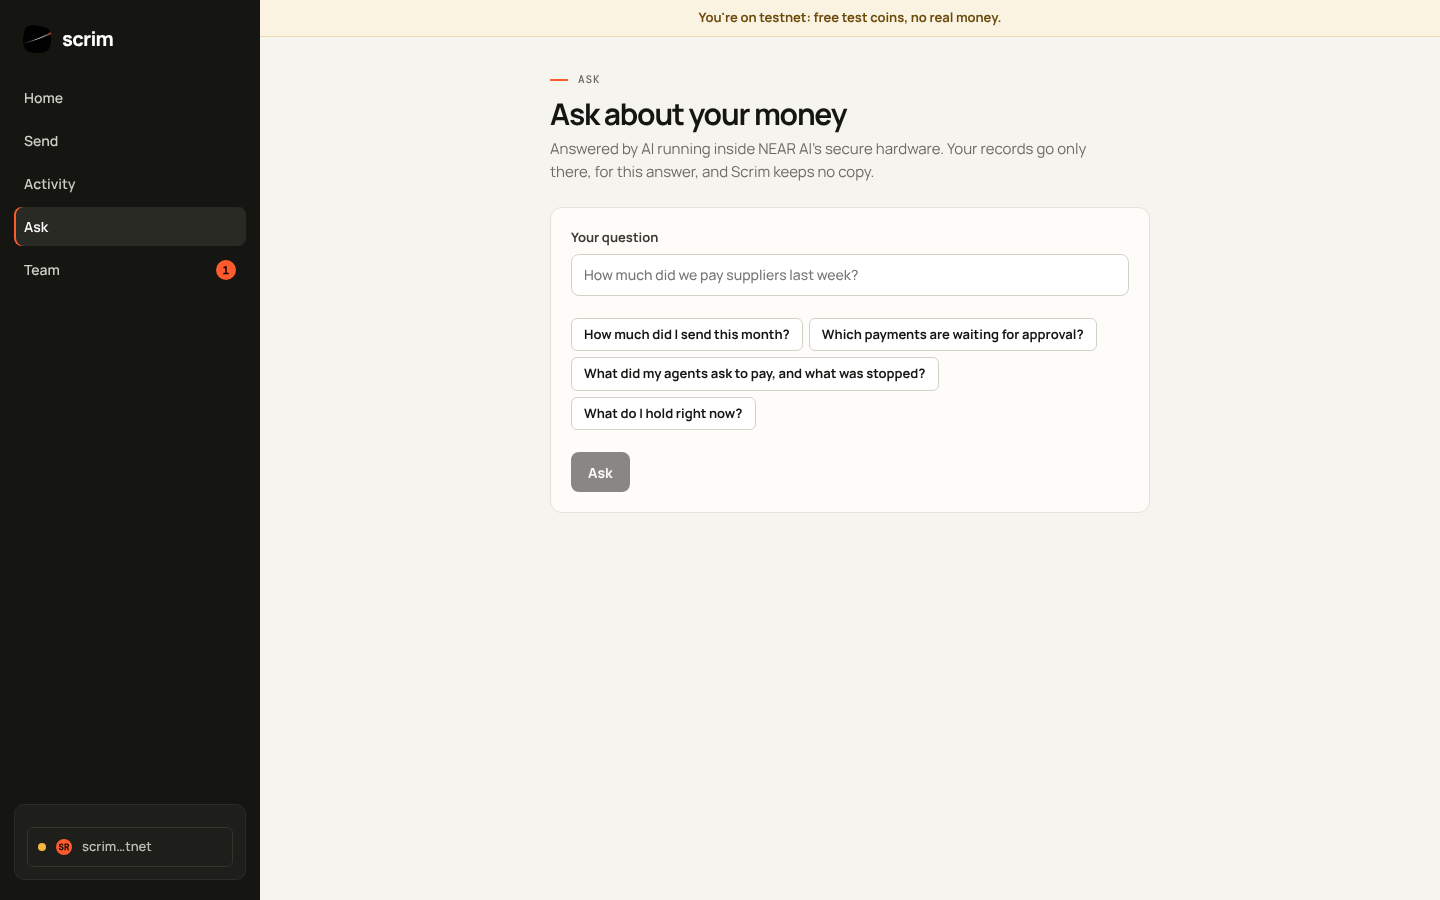
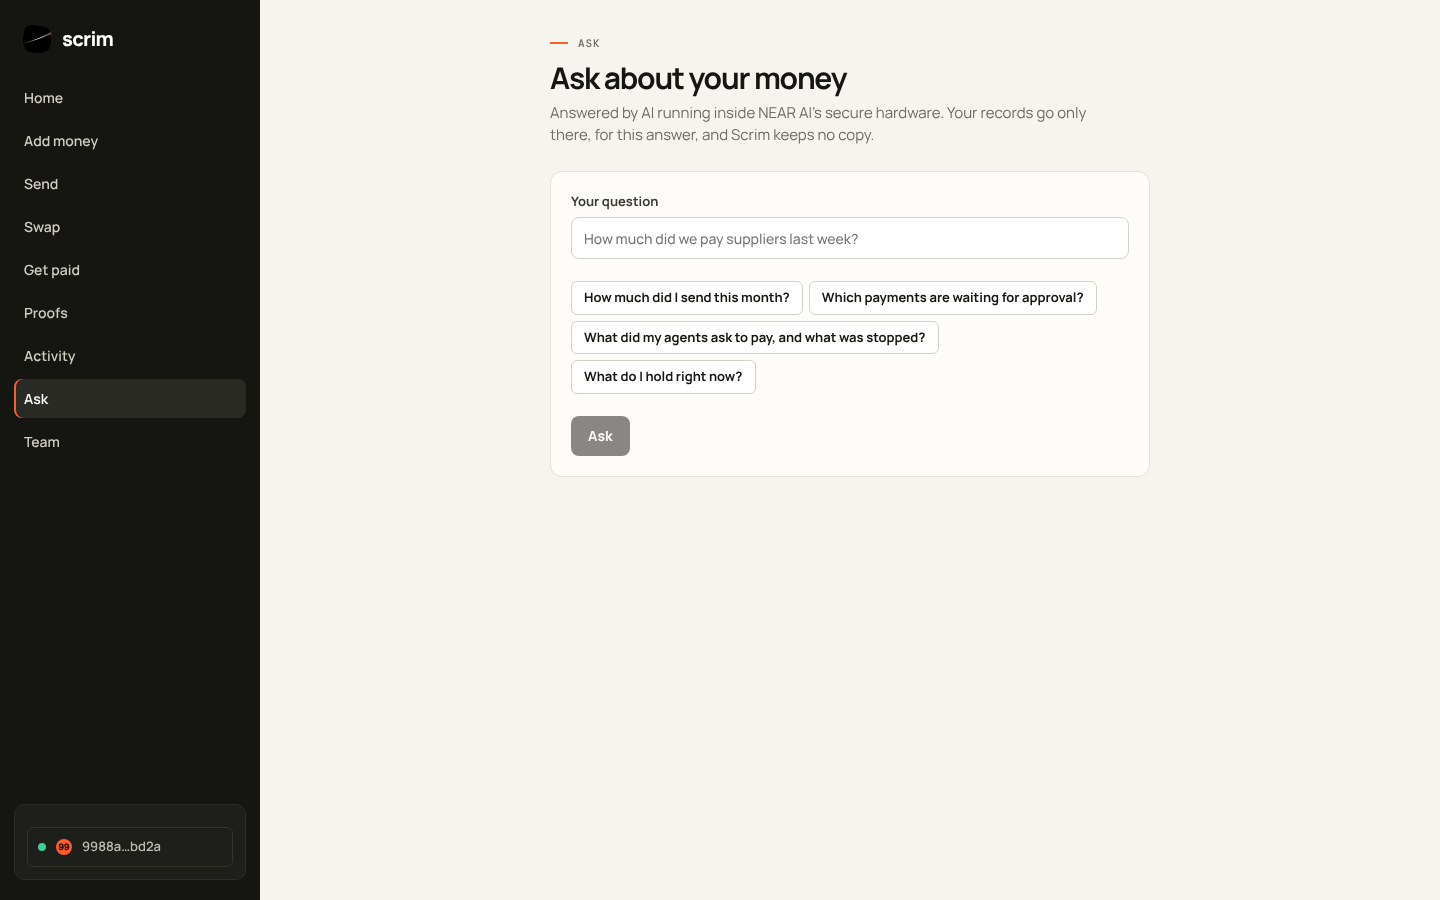
README leads with mainnet screens: home, add money, send, get paid, proofs, ask, agents

diff --git a/README.md b/README.md
@@ -94,7 +94,34 @@ Scrim keeps your money private, works across 30+ networks, and lets you show exa
 | **Activity** | Everything you did, in plain words. Private payments are listed only for you; your connected wallet's own transactions are read from the chain. |
 | **Agents** | Give software its own key and limits. It asks to pay and people approve, or, with a wallet of its own, it pays by itself within those limits. Agents can pay your links and buy from paid APIs over x402. See [Agents](#agents). |
 
-<p align="center"><img src="docs/images/add-money.png" alt="Add money screen with real coins and networks" width="420"></p>
+Mainnet, the real product:
+
+<table>
+  <tr>
+    <td><img src="docs/images/app-home.png" alt="Mainnet home: the private balance, with a switch to see what the public sees" width="430"></td>
+    <td><img src="docs/images/add-money.png" alt="Add money: a one-time USDC deposit address on Base, with its minimum" width="430"></td>
+  </tr>
+  <tr>
+    <td align="center"><b>Home</b>: your private balance</td>
+    <td align="center"><b>Add money</b>: a one-time address on any chain</td>
+  </tr>
+  <tr>
+    <td><img src="docs/images/send.png" alt="Send: pay a NEAR account or any address on any chain from the private balance" width="430"></td>
+    <td><img src="docs/images/get-paid.png" alt="Get paid: create a payment link in any coin" width="430"></td>
+  </tr>
+  <tr>
+    <td align="center"><b>Send</b>: to a person or any address</td>
+    <td align="center"><b>Get paid</b>: a link anyone can pay</td>
+  </tr>
+  <tr>
+    <td><img src="docs/images/proofs.png" alt="Proofs: prove you hold at least an amount, or that a payment was made, to one named reader" width="430"></td>
+    <td><img src="docs/images/ask.png" alt="Ask: questions about your money, answered by private AI" width="430"></td>
+  </tr>
+  <tr>
+    <td align="center"><b>Proofs</b>: one fact, for one reader</td>
+    <td align="center"><b>Ask</b>: private AI on NEAR AI Cloud</td>
+  </tr>
+</table>
 
 ## Testnet and mainnet
 
@@ -116,12 +143,14 @@ Choose a network when you sign in. Everything shown is real data from the networ
 
 The private features need NEAR Intents, which only exists on mainnet. On testnet those screens say so plainly. The recommended path is to try Scrim on testnet first, then move to mainnet with a separate account and small amounts.
 
-<p align="center">
-  <img src="docs/images/team.png" alt="A team account: one agent request waiting for approval, one paid, one stopped by its limits" width="880">
-</p>
-<p align="center">
-  <img src="docs/images/activity.png" alt="Activity: the wallet's own transactions in plain words, with details for one transfer" width="880">
-</p>
+On testnet, a team with an agent's requests (one waiting, one paid on-chain, one stopped by its limits), and Activity read from the chain:
+
+<table>
+  <tr>
+    <td><img src="docs/images/team.png" alt="Testnet team account: one agent request waiting for approval, one paid, one stopped by its limits" width="430"></td>
+    <td><img src="docs/images/activity.png" alt="Testnet Activity: the wallet's own transactions in plain words, with details for one transfer" width="430"></td>
+  </tr>
+</table>
 
 ## How it works
 
@@ -147,8 +176,6 @@ flowchart LR
 **Ask your money (NEAR AI Cloud).** The Ask screen sends your question and your own records (balances, payments, team requests, wallet transactions) to a model running in NEAR AI Cloud's confidential hardware (Intel TDX and NVIDIA confidential GPUs). Before asking, Scrim fetches the model's attestation report with a fresh nonce. After, it checks the answer's signature over the exact request and response bytes, and that the signing key is the one the report names. Scrim keeps no copy of the question or the answer. Set `NEARAI_API_KEY` (and optionally `NEARAI_MODEL`) to switch it on.
 
 <p align="center"><img src="docs/images/ask-scene.png" alt="Ask: a question goes into NEAR AI's secure hardware with your records, the answer's signature is checked" width="720"></p>
-
-<p align="center"><img src="docs/images/ask.png" alt="The Ask screen with suggested questions" width="720"></p>
 
 ### Where the data comes from
 
@@ -236,7 +263,16 @@ Tools: `get_limits`, `request_payment`, `find_paid_apis`, `pay_x402`, `list_paym
 
 **Updates (webhooks).** Set an `https://` address under **Connect** and Scrim calls it when a request is created, stopped, approved, being paid, paid, failed or cancelled. Each call carries `Scrim-Signature: t=<unix seconds>,v1=<hex>`, where `v1` is the HMAC-SHA256 of `"<t>.<raw body>"` with the signing secret (`whsec_…`, shown once). Reject calls with a wrong signature or a timestamp older than five minutes. Only public addresses are allowed.
 
-<p align="center"><img src="docs/images/connect.png" alt="Connect an agent: its key, updates, its own wallet, and how to plug it in, including paid APIs" width="720"></p>
+<table>
+  <tr>
+    <td><img src="docs/images/agents.png" alt="Mainnet agent: limits in USDC, 24-hour budget, allowed recipients including a paid API" width="430"></td>
+    <td><img src="docs/images/connect.png" alt="Connect an agent: its key, updates, its own wallet, and how to plug it in, including paid APIs" width="430"></td>
+  </tr>
+  <tr>
+    <td align="center">An agent on mainnet: limits in USDC</td>
+    <td align="center"><b>Connect</b>: key, updates, its own wallet, setup</td>
+  </tr>
+</table>
 
 <p align="center"><img src="docs/images/x402.png" alt="x402: an agent asks a paid API, gets 402, Scrim checks the limits and pays privately, the API answers" width="720"></p>
 
